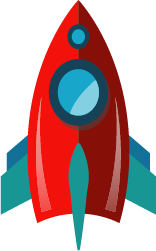
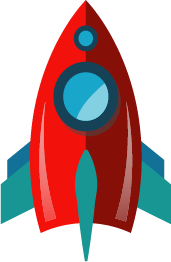
Replaced rocket image after start and after landing

diff --git a/scripts/rocket.js b/scripts/rocket.js
@@ -29,8 +29,8 @@ class Rocket
     calculateEducationPosition()
     {
         return {
-            top :  $('#education-container').offset().top + $('#skills-container').height() / 2,
-            left: $('#education-container').width() / 2 - this.width / 2
+            top :  $('#saturn').offset().top,
+            left: $('#saturn').width()
         }
     }
 
@@ -38,23 +38,40 @@ class Rocket
     {
         switch(this.currentSection)
         {
-            case 0: this.animateFromEarth();
+            case 0:
+                this.afterStart();
+                this.animateToSkills();
                 break;
-            case 1 : this.animateFromSkills();
+            case 1 :
+                this.animateToEducation();
                 break;
         }
         this.currentSection++;
     }
 
-    animateFromSkills()
+    animateToEducation()
     {
         let newPosition = this.calculateEducationPosition();
 
         $('#rocket')
-            .animate({top: newPosition.top },{ duration : 700});
+            .animate({top: newPosition.top - 100 },{ duration : 700})
+            .animate({top: newPosition.top },{ duration : 700})
+            .animate(
+                { deg: 80 },
+                {
+                    duration: 100,
+                    step: function(now) {
+                        now = now - 40;
+                        $(this).css({ transform: 'rotate(' + now  + 'deg)' });
+                    },
+                    complete: function() {
+                        $('#rocket').css("background-image",'url("images/rocket.png")');
+                    }
+                }
+            )
     }
 
-    animateFromEarth()
+    animateToSkills()
     {
         let newPosition = this.calculateSkillPosition();
         let currentPosition = this.getCurrentPosition();
@@ -84,8 +101,6 @@ class Rocket
                 }
             )
             .animate({top: "-=" + distanceY/3 + "px" },{ duration : 200});
-
-
     }
 
     getCurrentPosition()
@@ -93,11 +108,24 @@ class Rocket
         return $('#rocket').offset();
     }
 
-    bouncingAnimation()
+    afterStart()
     {
-        $('#rocket')
-            .animate({top: "-=" + 10 + "px", left: "+=10px" },{ duration : 100})
-            .animate({top: "+=" + 10 + "px", left: "+=10px" },{ duration : 100})
+        this.replaceToRocketWithFlames();
+    }
+
+    afterLanding()
+    {
+        this.replaceToRocketWithoutFlames();
+    }
+
+    replaceToRocketWithFlames()
+    {
+        $('#rocket').css("background-image",'url("images/rocketWithFlames.png")');
+    }
+
+    replaceToRocketWithoutFlames()
+    {
+        $('#rocket').css("background-image",'url("images/rocket.png")');
     }
 
 }

diff --git a/style.css b/style.css
@@ -1,11 +1,12 @@
 #rocket
 {
-    width:155px;
-    height:250px;
+    width:170px;
+    height:320px;
     position:absolute;
     transform: rotate(-40deg);
     background-image: url("images/rocket.png");
-    overflow: hidden;
+    background-repeat: no-repeat;
+    overflow: visible;
 }
 
 #earth
@@ -51,12 +52,12 @@
 }
 div
 {
-    border: 1px solid black;
+    //border: 1px solid black;
 }
 body{
-    background-color: black;
     font-family: 'Amatic SC', cursive;
     font-size: 50px;
+    background-color: black;
     color:white;
 }
 table,tr,th
@@ -69,7 +70,7 @@ table
 }
 .littlePlanet
 {
-    width:70px;
+    width:71px;
     height: 70px;
     float:left;
     margin: 0 15px;
@@ -101,9 +102,17 @@ table
 {
     background-image: url("images/littlePlanet5.png");
 }
-.littlePlanet6
+#saturn
 {
-    background-image: url("images/littlePlanet6.png");
+    width: 1000px;
+    height: 667px;
+    background-image: url("images/saturn.png");
+    margin: 10px 100px;
 }
+.footer
+{
+    font-size:20px;
+}
+
 
 

diff --git a/scripts/application.js b/scripts/application.js
@@ -29,7 +29,7 @@ class Application
     {
         $(".littlePlanet").each(function()
         {
-            let number = Math.floor((Math.random() * 6) + 1);
+            let number = Math.floor((Math.random() * 5) + 1);
             $(this).addClass('littlePlanet' + number);
         })
     }
